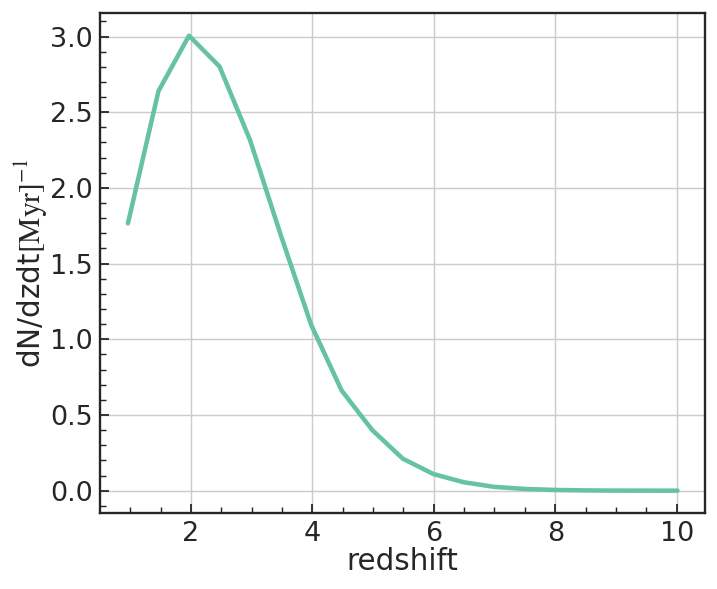
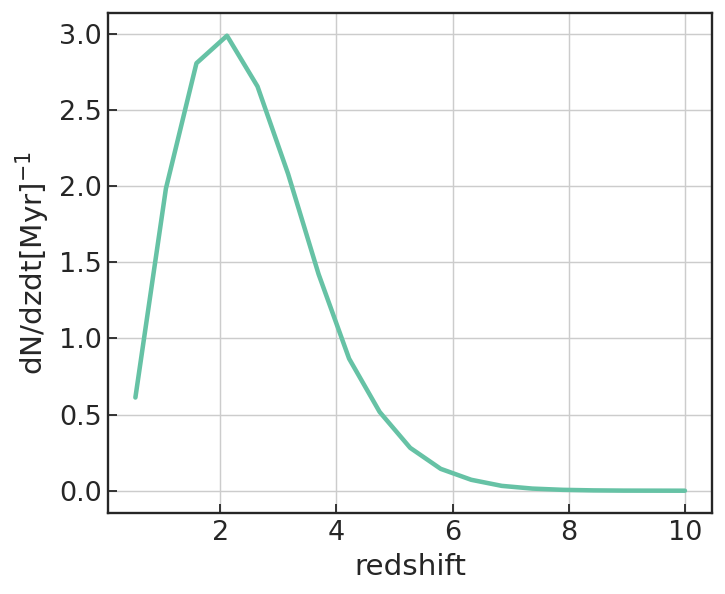
changed gather data code

diff --git a/merger_catalog/codes/raw_merger/gather-data-v2.py b/merger_catalog/codes/raw_merger/gather-data-v2.py
@@ -83,14 +83,14 @@ uid, uidx = np.unique(swbh, return_index=True)
 mergers = mergers[uidx]
 
 print("unique mergers:", len(mergers))
-savedir = "/hildafs/home/nianyic/scratch1/Astrid_data/lisa_mbhcat/lisa_mcat_v2.0_nogal.npy"
-np.save(savedir, mergers)
-print("saved catalog to:", savedir)
+# savedir = "/hildafs/home/nianyic/scratch1/Astrid_data/lisa_mbhcat/lisa_mcat_v2.0_nogal.npy"
+# np.save(savedir, mergers)
+# print("saved catalog to:", savedir)
 
 
 fig, ax = plt.subplots(1, 1, figsize=(6, 5))
 vsim = 250**3
-zbin = np.linspace(1.3,6,20)
+zbin = np.linspace(0.3,6,20)
 dz = zbin[1:] - zbin[:-1]
 zc = 0.5*(zbin[1:]+zbin[:-1])
 rc = np.array([cosmo.comovingDistance(0.,zz) for zz in zc])
